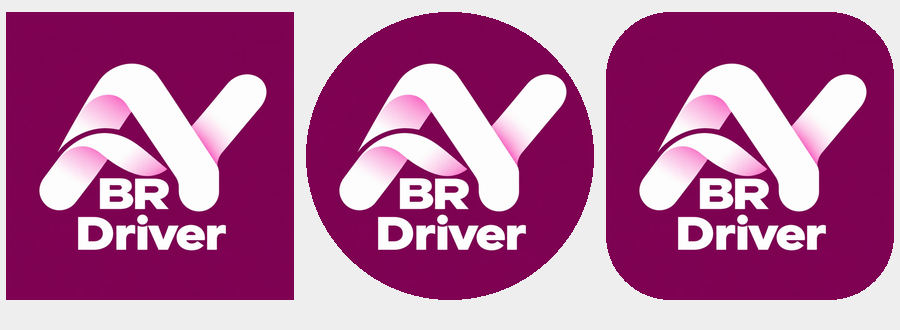
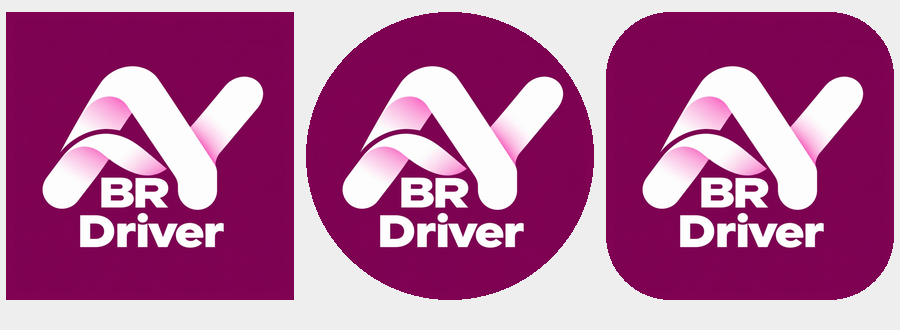
brand: keep complete Driver lettering inside adaptive safe circle [skip ci]

diff --git a/Frontend/branding/driver/generate-icons.py b/Frontend/branding/driver/generate-icons.py
@@ -1,7 +1,7 @@
 #!/usr/bin/env python3
 """Resample supplied artwork only; no redrawing/removal of the original design.
 
-Requires Pillow. The complete source sits in 70/108 dp. Its visible artwork is
+Requires Pillow. The complete source sits in 68/108 dp. Its visible artwork is
 inside the adaptive 66 dp safe circle. Legacy icons use the central 72 dp viewport.
 """
 from pathlib import Path
@@ -15,7 +15,7 @@ background = '#800253'
 for density, scale in [('mdpi',1),('hdpi',1.5),('xhdpi',2),('xxhdpi',3),('xxxhdpi',4)]:
     directory = res / ('mipmap-' + density)
     directory.mkdir(parents=True, exist_ok=True)
-    side, art_side = round(108*scale), round(70*scale)
+    side, art_side = round(108*scale), round(68*scale)
     layer = Image.new('RGBA',(side,side),background)
     art = source.resize((art_side,art_side),Image.Resampling.LANCZOS)
     inset = (side-art_side)//2

diff --git a/Frontend/branding/driver/README.md b/Frontend/branding/driver/README.md
@@ -6,7 +6,7 @@ Sem geração de imagem, remoção de fundo ou redesenho da marca.
 
 `generate-icons.py` usa Pillow apenas como ferramenta de reamostragem: cria os
 15 PNGs nas cinco densidades (48 dp legado, 108 dp adaptativo). A arte completa
-ocupa 70 dp centralizados; o símbolo e o texto permanecem na área segura de
+ocupa 68 dp centralizados; o símbolo e o texto permanecem na área segura de
 66 dp. `launcher-masks.png` permite conferir máscaras quadrada, circular e
 arredondada. O fundo adaptativo é #800253. Não há ícone monocromático temático:
 esta entrega preserva as cores fornecidas.
